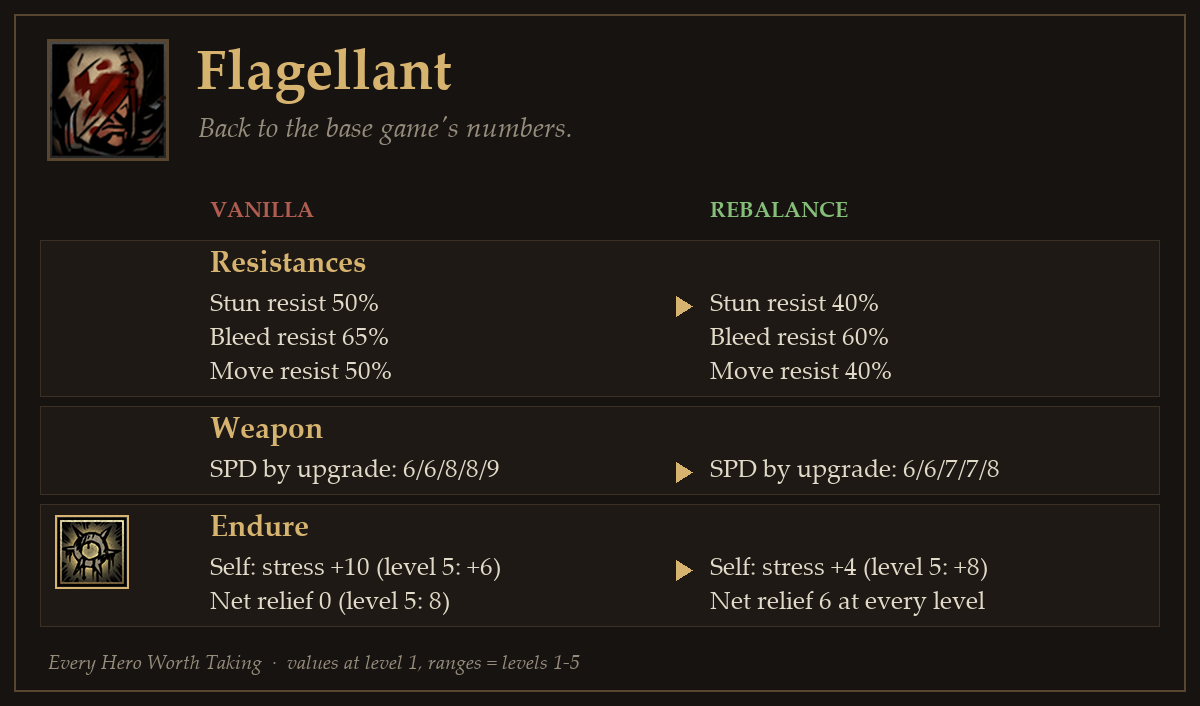
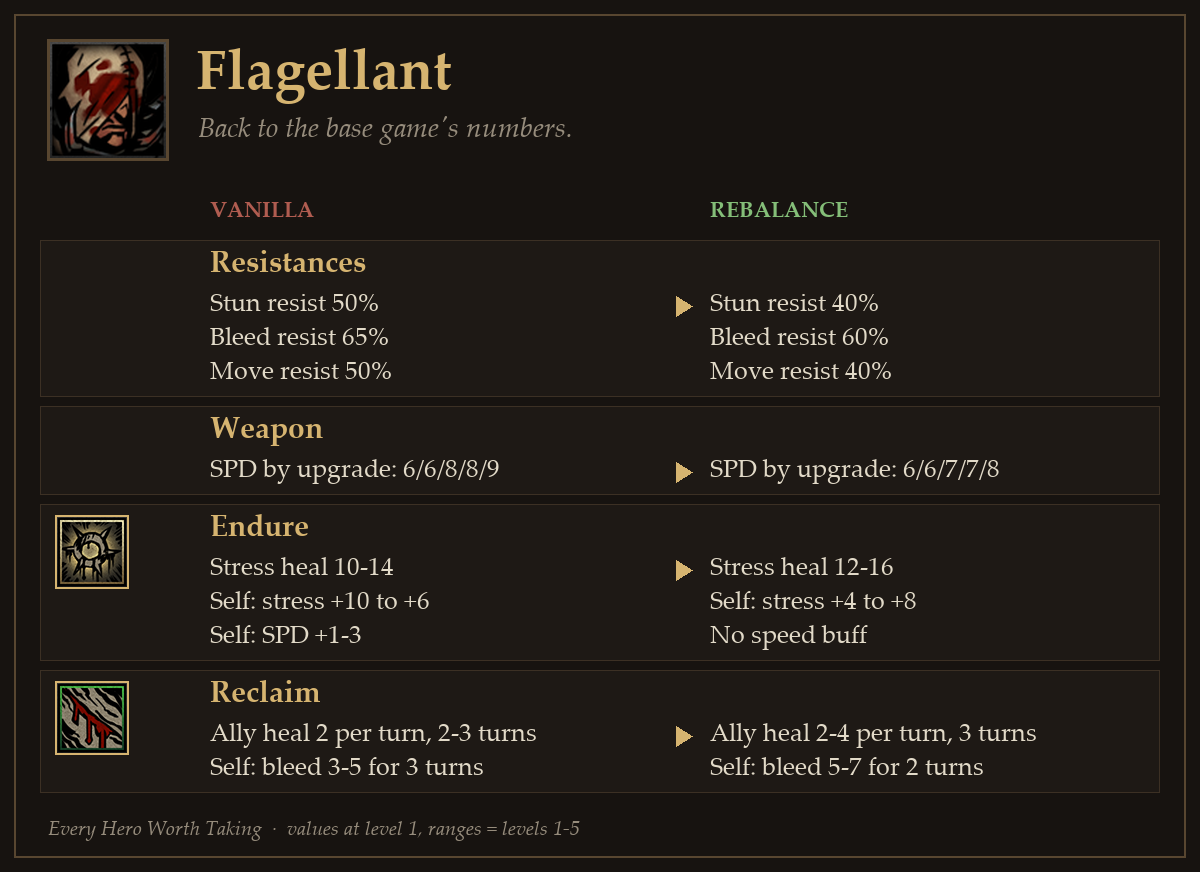
FLA-010 Reclaim: heal 2/2/3/3/4 x3, self-bleed 5/5/6/6/7 x2 (rolls back FLA-005); FLA-011 Endure stress heal 12-16; patch notes now show heal-over-time; cards and reasons updated

diff --git a/tools/patch_notes.py b/tools/patch_notes.py
@@ -73,6 +73,7 @@ class Ctx:
             if key in k: add('%s %s×%s%s' % (L[nm], S.first(k, key), dur or '3', L['t'] if lang == 'ko' else 't'))
         if 'dotBurn' in k: add('%s %s' % (L['burn'], S.first(k, 'dotBurn')))
         if 'heal' in k: add('%s %s' % (L['heal'], S.first(k, 'heal')))
+        if 'dotHpHeal' in k: add('%s %s×%s%s' % (L['heal'], S.first(k, 'dotHpHeal'), dur or '3', L['t'] if lang == 'ko' else 't'))
         if 'healstress' in k: add('%s %s' % (L['healstress'], S.first(k, 'healstress')))
         if 'stress' in k: add('%s +%s' % (L['stress'], S.first(k, 'stress')))
         if 'push' in k: add('%s %s' % (L['push'], S.first(k, 'push')))
@@ -143,7 +144,7 @@ class Ctx:
             s += ' (%s)' % ch
         if S.first(k, 'buff_duration_type', '') == 'combat_end':
             s += ' ' + L['combat_end']
-        elif dur and not ('dotBleed' in k or 'dotPoison' in k):
+        elif dur and not ('dotBleed' in k or 'dotPoison' in k or 'dotHpHeal' in k):
             s += ' %s%s' % (dur, L['t'] if lang == 'ko' else 't')
         return s
 

diff --git a/design/workshop/patch_notes_ko.md b/design/workshop/patch_notes_ko.md
@@ -51,7 +51,8 @@
 
 - **저항**: 저항 stun 50% → 40%; 저항 bleed 65% → 60%; 저항 move 50% → 40% — 기절·이동 저항이 근거 없이 기준보다 높았습니다. 스스로 상처 내며 단단해진다는 설정과 거의 맨몸인 외형이 상쇄되므로 기준값 40으로 맞췄습니다. 출혈 65는 대표 저항의 일반 상한(기준 +30)을 넘는 유일한 사례라 상한에 맞췄습니다. *(R-RES-01, P-22, G-04 / FLA-001)*
 - **무기**: 무기 spd 6 / 6 / 8 / 8 / 9 → 6 / 6 / 7 / 7 / 8 — 거의 모든 영웅은 무기 레벨에 따라 속도가 +0/+0/+1/+1/+2로 오르는데 고행자만 더 크게 올랐습니다. 같은 성장 규칙에 맞췄습니다. *(R-GROW-03, G-04 / FLA-007)*
-- **인내**: 1렙 자신: 스트레스 +10; 자신: 속도 +1 … 5렙 자신: 스트레스 +6; 자신: 속도 +3 → 1렙 자신: 스트레스 +4 … 5렙 자신: 스트레스 +8 — 1레벨 인내는 스트레스 10을 회복하고 자신이 10을 받아 순회복이 0이었습니다. 자기 스트레스를 레벨마다 올려 순회복을 매 레벨 6으로 맞췄습니다. 저레벨부터 쓸 만하되, 2018년 공식 하향을 존중해 5레벨은 바닐라보다 낮습니다. *(G-05, P-06 / FLA-008)*
+- **재기**: 1렙 회복 2×2턴; 자신: 출혈 3×3턴 (120%) … 5렙 자신: 출혈 5×3턴 (160%) → 1렙 회복 2×3턴; 자신: 출혈 5×2턴 (120%) … 5렙 자신: 출혈 7×2턴 (160%) — 재기의 자해 출혈은 고행자가 스스로 체력 40%를 만들어 구제·방혈을 여는 장치라, 3턴 대신 2턴에 세게 들어가 한 턴 빨리 40%에 닿게 했습니다. 회복은 모든 레벨 3턴 지속에 원작 회복량을 씁니다. 출혈 저항 장신구를 끼면 여전히 순수 회복기로 쓸 수 있습니다. *(P-19, G-05 / FLA-010)*
+- **인내**: 1렙 스트레스 회복 10; 자신: 스트레스 +10; 자신: 속도 +1 … 5렙 스트레스 회복 14; 자신: 스트레스 +6; 자신: 속도 +3 → 1렙 스트레스 회복 12; 자신: 스트레스 +4 … 5렙 스트레스 회복 16; 자신: 스트레스 +8 — 인내는 이제 순수 스트레스 회복 기술입니다. 자기 속도 버프를 빼는 대신 회복량을 올려, 자기 스트레스를 빼고도 모든 레벨에서 8씩 회복합니다. 1레벨부터 쓸 만합니다. *(G-05, P-06 / FLA-008, FLA-009, FLA-011)*
 
 ## 도굴꾼
 

diff --git a/design/workshop/patch_notes_en.md b/design/workshop/patch_notes_en.md
@@ -51,7 +51,8 @@ Each entry: what changed (generated from the game data) — why (principle IDs f
 
 - **Resistances**: Resists stun 50% → 40%; Resists bleed 65% → 60%; Resists move 50% → 40% — His stun and move resists sat above the baseline without justification: the lore's toughness from self-inflicted wounds is offset by fighting nearly unarmored, so both return to the baseline 40. Bleed 65 was the only signature resist above the game's usual cap (baseline +30), so it now matches that cap. *(R-RES-01, P-22, G-04 / FLA-001)*
 - **Weapon**: Weapon spd 6 / 6 / 8 / 8 / 9 → 6 / 6 / 7 / 7 / 8 — Nearly every hero gains speed +0/+0/+1/+1/+2 across weapon upgrades; the Flagellant's bigger jumps were an outlier, so his growth now follows the same rule. *(R-GROW-03, G-04 / FLA-007)*
-- **Endure**: Lv1 self: stress +10; self: speed +1 … Lv5 self: stress +6; self: speed +3 → Lv1 self: stress +4 … Lv5 self: stress +8 — At level 1, Endure relieved 10 stress but cost him 10, a net of zero. Self stress now scales so the net relief is a steady 6 at every level: useful from the start, while level 5 stays below vanilla out of respect for the official 2018 nerf. *(G-05, P-06 / FLA-008)*
+- **Reclaim**: Lv1 heal 2×2t; self: bleed 3×3t (120%) … Lv5 self: bleed 5×3t (160%) → Lv1 heal 2×3t; self: bleed 5×2t (120%) … Lv5 self: bleed 7×2t (160%) — Reclaim's self-bleed is how the Flagellant drops himself to 40% HP for Redeem and Exsanguinate, so it now bleeds harder over 2 turns instead of 3 and gets him there a turn sooner. The heal lasts 3 turns at every level with the base game's amounts. Bleed-resist trinkets still let you run it as a pure healer. *(P-19, G-05 / FLA-010)*
+- **Endure**: Lv1 stress heal 10; self: stress +10; self: speed +1 … Lv5 stress heal 14; self: stress +6; self: speed +3 → Lv1 stress heal 12; self: stress +4 … Lv5 stress heal 16; self: stress +8 — Endure is now a pure stress heal: the self speed buff is gone and the heal is higher instead. After his own stress cost it relieves a steady 8 stress at every level, so it is useful from level 1. *(G-05, P-06 / FLA-008, FLA-009, FLA-011)*
 
 ## Grave Robber
 
